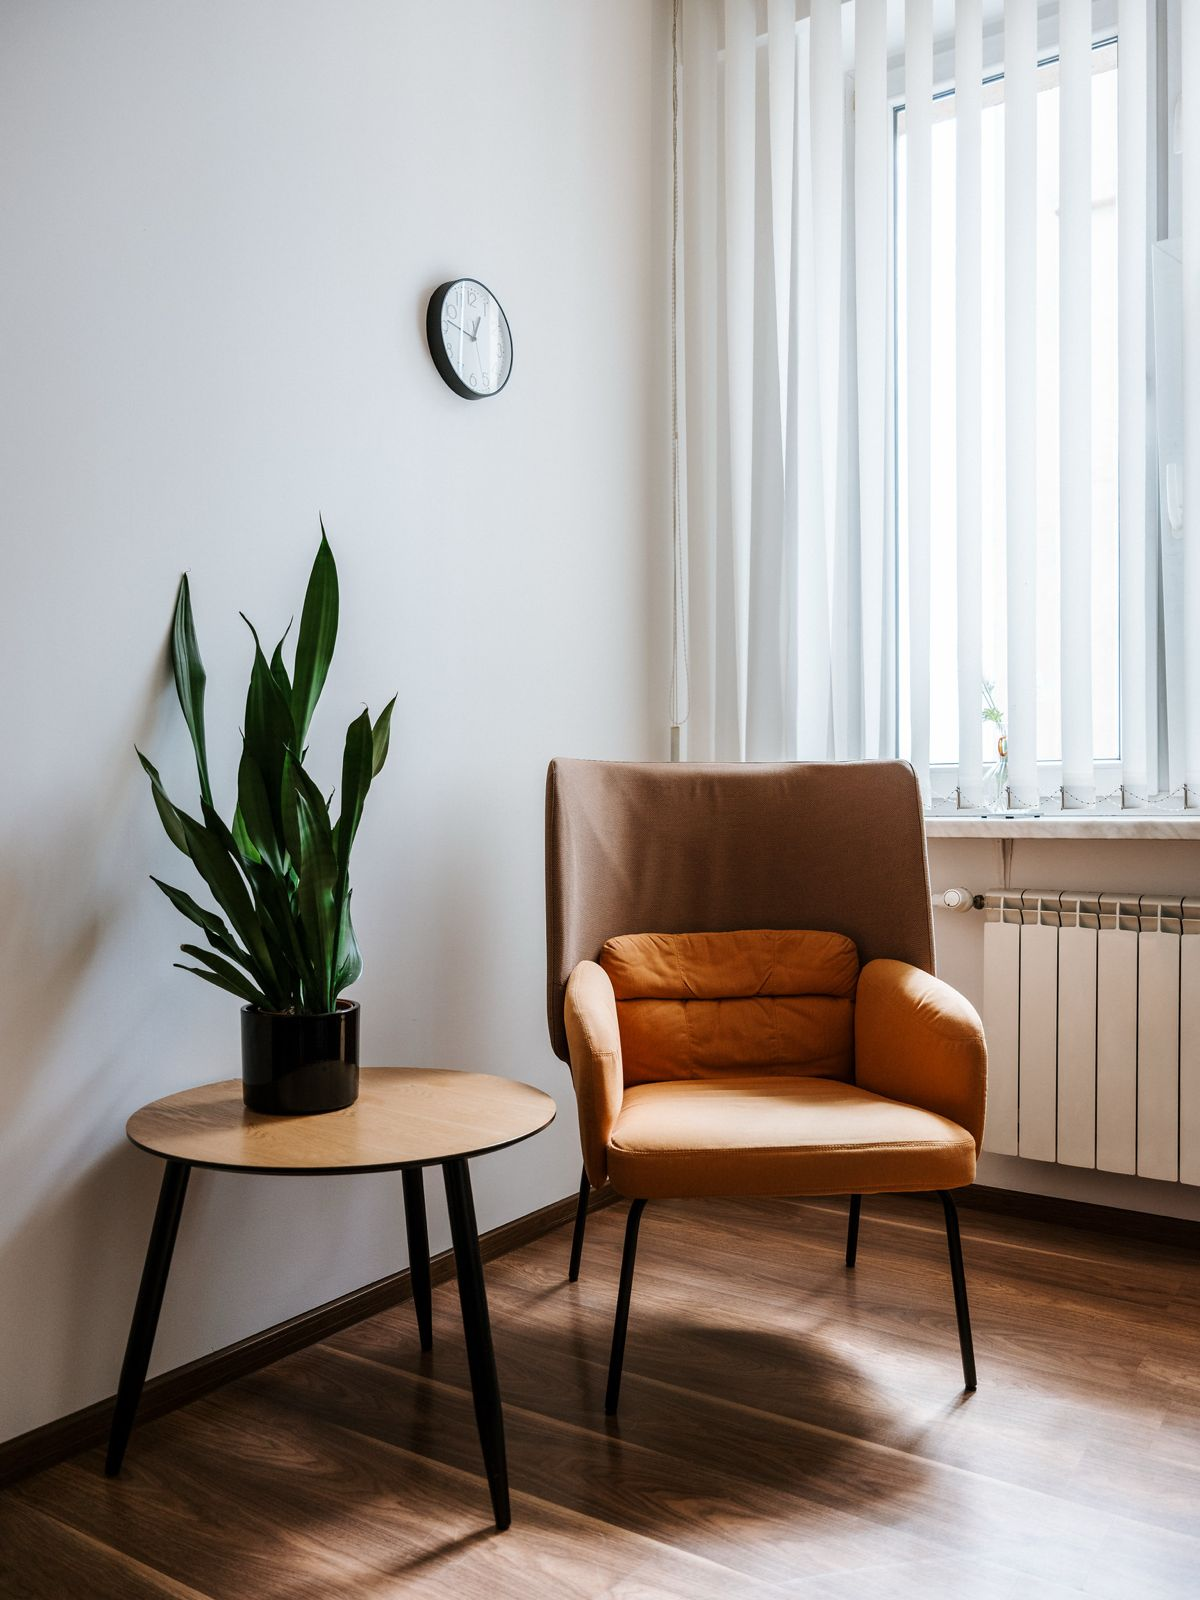
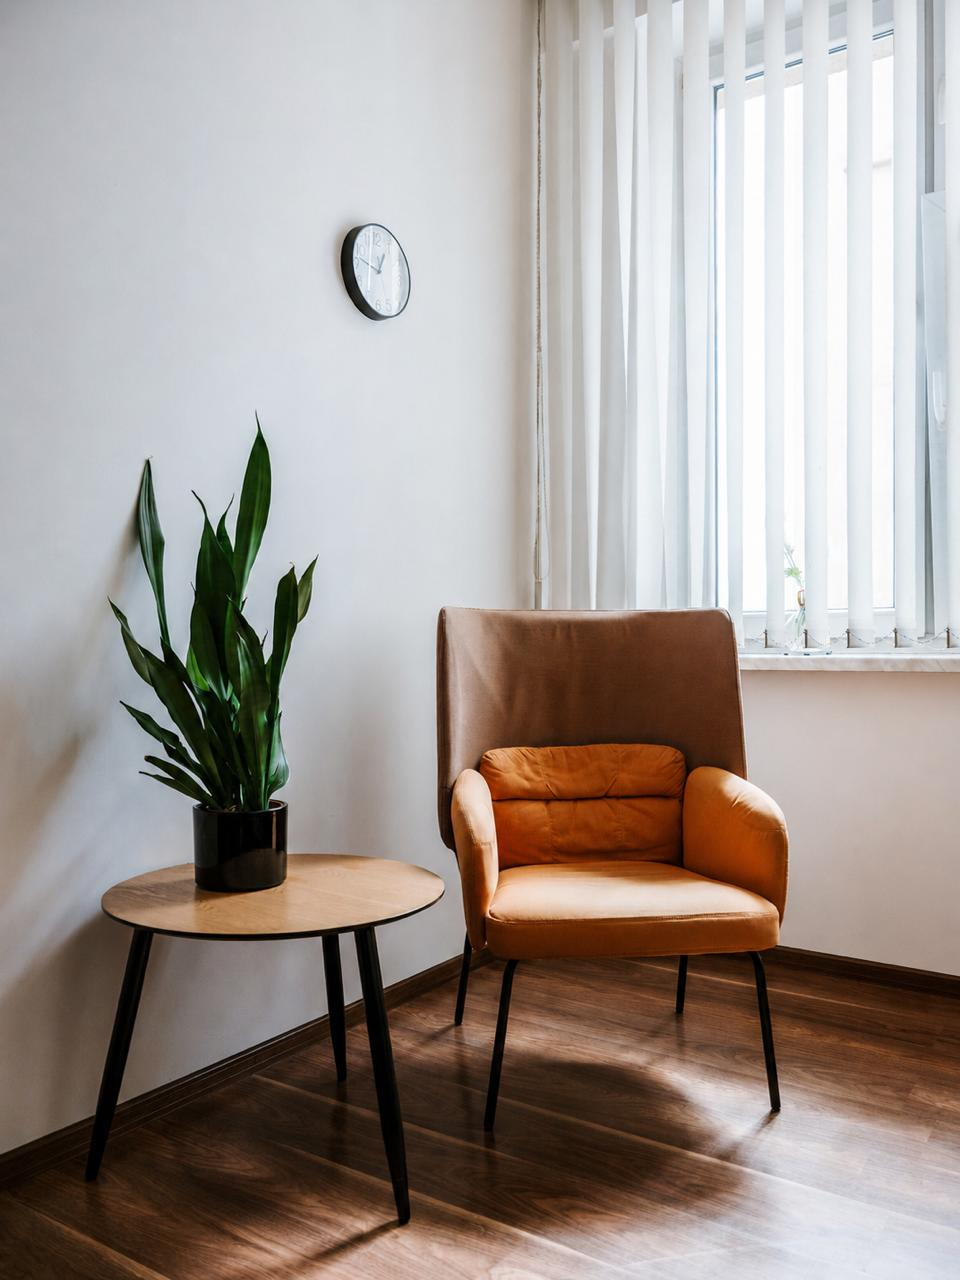
FIX: images, border

diff --git a/index.html b/index.html
@@ -29,6 +29,8 @@
   }
   </script>
 
+  <link rel="icon" href="assets/img/favicon_sm.png" type="image/png">
+
   <link rel="preconnect" href="https://fonts.googleapis.com">
   <link rel="preconnect" href="https://fonts.gstatic.com" crossorigin>
   <link href="https://fonts.googleapis.com/css2?family=Playfair+Display:ital,wght@0,400;0,500;0,600;1,400&family=Inter:wght@300;400;500&family=Quicksand:wght@500;600&display=swap" rel="stylesheet">
@@ -61,6 +63,26 @@
   <script async src="https://www.googletagmanager.com/gtag/js?id=G-CHL0GYQ62L"></script>
   <script>
     gtag('config', 'G-CHL0GYQ62L');
+  </script>
+  <script async src="https://www.googletagmanager.com/gtag/js?id=AW-16494645470"></script>
+  <script>
+    gtag('config', 'AW-16494645470');
+  </script>
+  <script>
+    function gtag_report_conversion(url) {
+      var callback = function () {
+        if (typeof(url) != 'undefined') {
+          window.location = url;
+        }
+      };
+      gtag('event', 'conversion', {
+        'send_to': 'AW-16494645470/731WCPrVtrAcEN6hobk9',
+        'value': 1.0,
+        'currency': 'PLN',
+        'event_callback': callback
+      });
+      return false;
+    }
   </script>
 
   <style>
@@ -396,19 +418,19 @@
 
       <div class="reveal grid sm:grid-cols-3 gap-4 lg:gap-5 max-w-3xl mx-auto">
 
-        <div class="bg-white border border-stone-200 rounded-sm p-6 hover:border-amber-200 transition duration-300">
+        <div class="bg-white border border-stone-200 rounded-sm p-6 hover:border-stone-800 transition duration-300">
           <h3 class="font-serif text-lg text-stone-800 mb-2">Konsultacja psychologiczna</h3>
           <p class="text-stone-400 text-xs mb-5 uppercase tracking-wide">50 minut</p>
           <p class="font-serif text-2xl text-amber-700">170 zł</p>
         </div>
 
-        <div class="bg-white border border-stone-200 rounded-sm p-6 hover:border-amber-200 transition duration-300">
+        <div class="bg-white border border-stone-200 rounded-sm p-6 hover:border-stone-800 transition duration-300">
           <h3 class="font-serif text-lg text-stone-800 mb-2">Psychoterapia indywidualna</h3>
           <p class="text-stone-400 text-xs mb-5 uppercase tracking-wide">50 minut</p>
           <p class="font-serif text-2xl text-amber-700">170 zł</p>
         </div>
 
-        <div class="bg-white border border-stone-200 rounded-sm p-6 hover:border-amber-200 transition duration-300">
+        <div class="bg-white border border-stone-200 rounded-sm p-6 hover:border-stone-800 transition duration-300">
           <h3 class="font-serif text-lg text-stone-800 mb-2">Diagnoza ADHD</h3>
           <p class="text-stone-400 text-xs mb-5 uppercase tracking-wide">z testem MOXO · pakiet</p>
           <p class="font-serif text-2xl text-amber-700">1 200 zł</p>
@@ -518,24 +540,24 @@
               <p class="text-stone-700">40-013 Katowice</p>
             </div>
             <div>
-              <p class="text-xs text-stone-400 uppercase tracking-widest mb-1.5 font-sans">Telefon (SMS)</p>
-              <a href="tel:[phone redacted]" class="text-stone-700 hover:text-amber-700 transition duration-200">[phone redacted]</a>
+              <p class="text-xs text-stone-400 uppercase tracking-widest mb-1.5 font-sans">Telefon</p>
+              <a href="tel:[phone redacted]" onclick="return gtag_report_conversion(this.href)" class="text-stone-700 hover:text-amber-700 transition duration-200">[phone redacted]</a>
             </div>
             <div>
               <p class="text-xs text-stone-400 uppercase tracking-widest mb-1.5 font-sans">E-mail</p>
-              <a href="mailto:[email redacted]" class="text-stone-700 hover:text-amber-700 transition duration-200">[email redacted]</a>
+              <a href="mailto:[email redacted]" onclick="return gtag_report_conversion(this.href)" class="text-stone-700 hover:text-amber-700 transition duration-200">[email redacted]</a>
             </div>
           </address>
 
           <!-- CTA buttons -->
           <div class="flex flex-col sm:flex-row gap-3">
-            <a href="sms:[phone redacted]" class="flex items-center justify-center gap-2.5 bg-stone-800 hover:bg-stone-700 text-stone-50 px-6 py-3.5 text-sm tracking-wide transition duration-200 rounded-sm">
+            <a href="sms:[phone redacted]" onclick="return gtag_report_conversion(this.href)" class="flex items-center justify-center gap-2.5 bg-stone-800 hover:bg-stone-700 text-stone-50 px-6 py-3.5 text-sm tracking-wide transition duration-200 rounded-sm">
               <svg class="w-4 h-4 shrink-0" fill="none" stroke="currentColor" viewBox="0 0 24 24">
                 <path stroke-linecap="round" stroke-linejoin="round" stroke-width="1.5" d="M8 10h.01M12 10h.01M16 10h.01M9 16H5a2 2 0 01-2-2V6a2 2 0 012-2h14a2 2 0 012 2v8a2 2 0 01-2 2h-5l-5 5v-5z"/>
               </svg>
               Wyślij SMS
             </a>
-            <a href="mailto:[email redacted]" class="flex items-center justify-center gap-2.5 border border-stone-800 text-stone-800 hover:bg-stone-800 hover:text-stone-50 px-6 py-3.5 text-sm tracking-wide transition duration-200 rounded-sm">
+            <a href="mailto:[email redacted]" onclick="return gtag_report_conversion(this.href)" class="flex items-center justify-center gap-2.5 border border-stone-800 text-stone-800 hover:bg-stone-800 hover:text-stone-50 px-6 py-3.5 text-sm tracking-wide transition duration-200 rounded-sm">
               <svg class="w-4 h-4 shrink-0" fill="none" stroke="currentColor" viewBox="0 0 24 24">
                 <path stroke-linecap="round" stroke-linejoin="round" stroke-width="1.5" d="M3 8l7.89 5.26a2 2 0 002.22 0L21 8M5 19h14a2 2 0 002-2V7a2 2 0 00-2-2H5a2 2 0 00-2 2v10a2 2 0 002 2z"/>
               </svg>
@@ -568,6 +590,7 @@
   <footer class="bg-stone-800 text-stone-400 py-8 border-t border-stone-700">
     <div class="max-w-6xl mx-auto px-6 lg:px-8 flex flex-col sm:flex-row items-center justify-between gap-4 text-sm">
       <p>© 2026 Gabinet Psychoterapii i Pomocy Psychologicznej SENS &middot; mgr Paulina Psonak &middot; Katowice</p>
+      <a href="https://red-flow.pl/" target="_blank" rel="noopener noreferrer" class="hover:text-stone-200 transition duration-200">Red-Flow Bartosz Boniecki</a>
       <a href="https://www.facebook.com/psychoterapiasens" target="_blank" rel="noopener noreferrer"
          class="flex items-center gap-2 hover:text-stone-200 transition duration-200">
         <svg class="w-4 h-4" fill="currentColor" viewBox="0 0 24 24" aria-hidden="true">